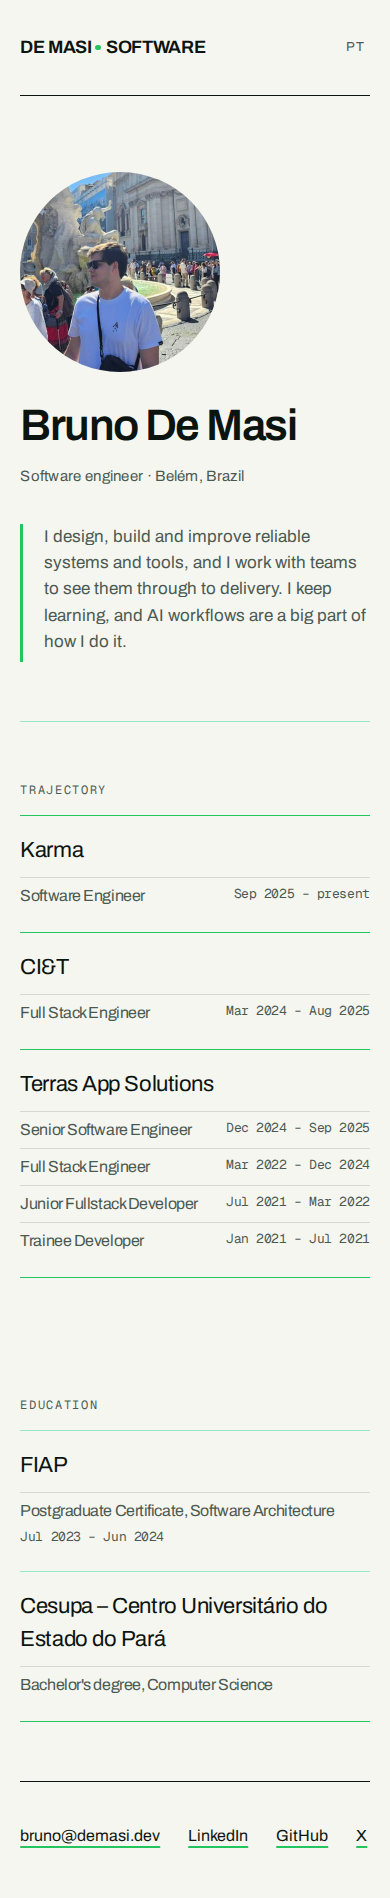
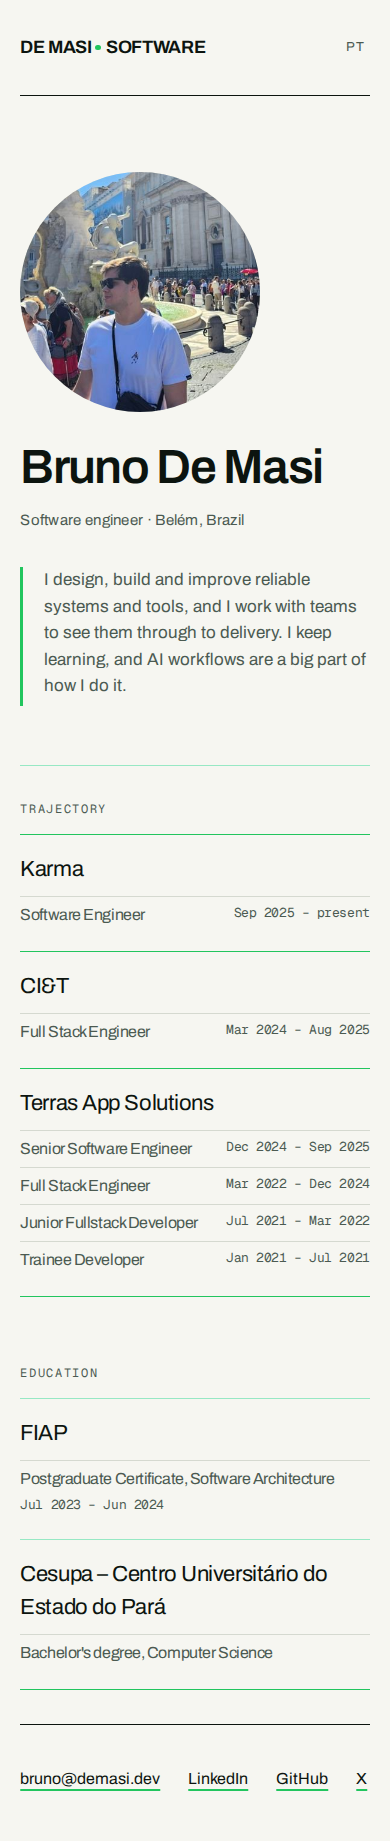
Tighten founder page: larger photo and name, less space between blocks

diff --git a/src/components/company/home.css b/src/components/company/home.css
@@ -177,7 +177,7 @@ body:has(.company-home) {
 
 .founder-photo {
   margin: 0;
-  width: min(220px, 100%);
+  width: min(300px, 100%);
   aspect-ratio: 1 / 1;
   border-radius: 50%;
   overflow: hidden;
@@ -192,7 +192,7 @@ body:has(.company-home) {
   object-position: 45% 30%;
 }
 
-.founder-name { font-size: clamp(44px, 5.6vw, 92px); }
+.founder-name { font-size: clamp(48px, 6.4vw, 110px); }
 
 .founder-role {
   margin-top: 18px;
@@ -207,7 +207,7 @@ body:has(.company-home) {
   display: grid;
   grid-template-columns: minmax(0, 3fr) minmax(0, 9fr);
   gap: 4vw;
-  padding: clamp(40px, 7vh, 88px) 0;
+  padding: clamp(28px, 4vh, 48px) 0;
 }
 
 .founder-trajectory {
@@ -250,6 +250,6 @@ body:has(.company-home) {
 
 @media (max-width: 900px) {
   .founder-intro { grid-template-columns: 1fr; gap: 32px; }
-  .founder-photo { width: min(200px, 100%); }
+  .founder-photo { width: min(240px, 100%); }
   .founder-block { grid-template-columns: 1fr; gap: 16px; }
 }
